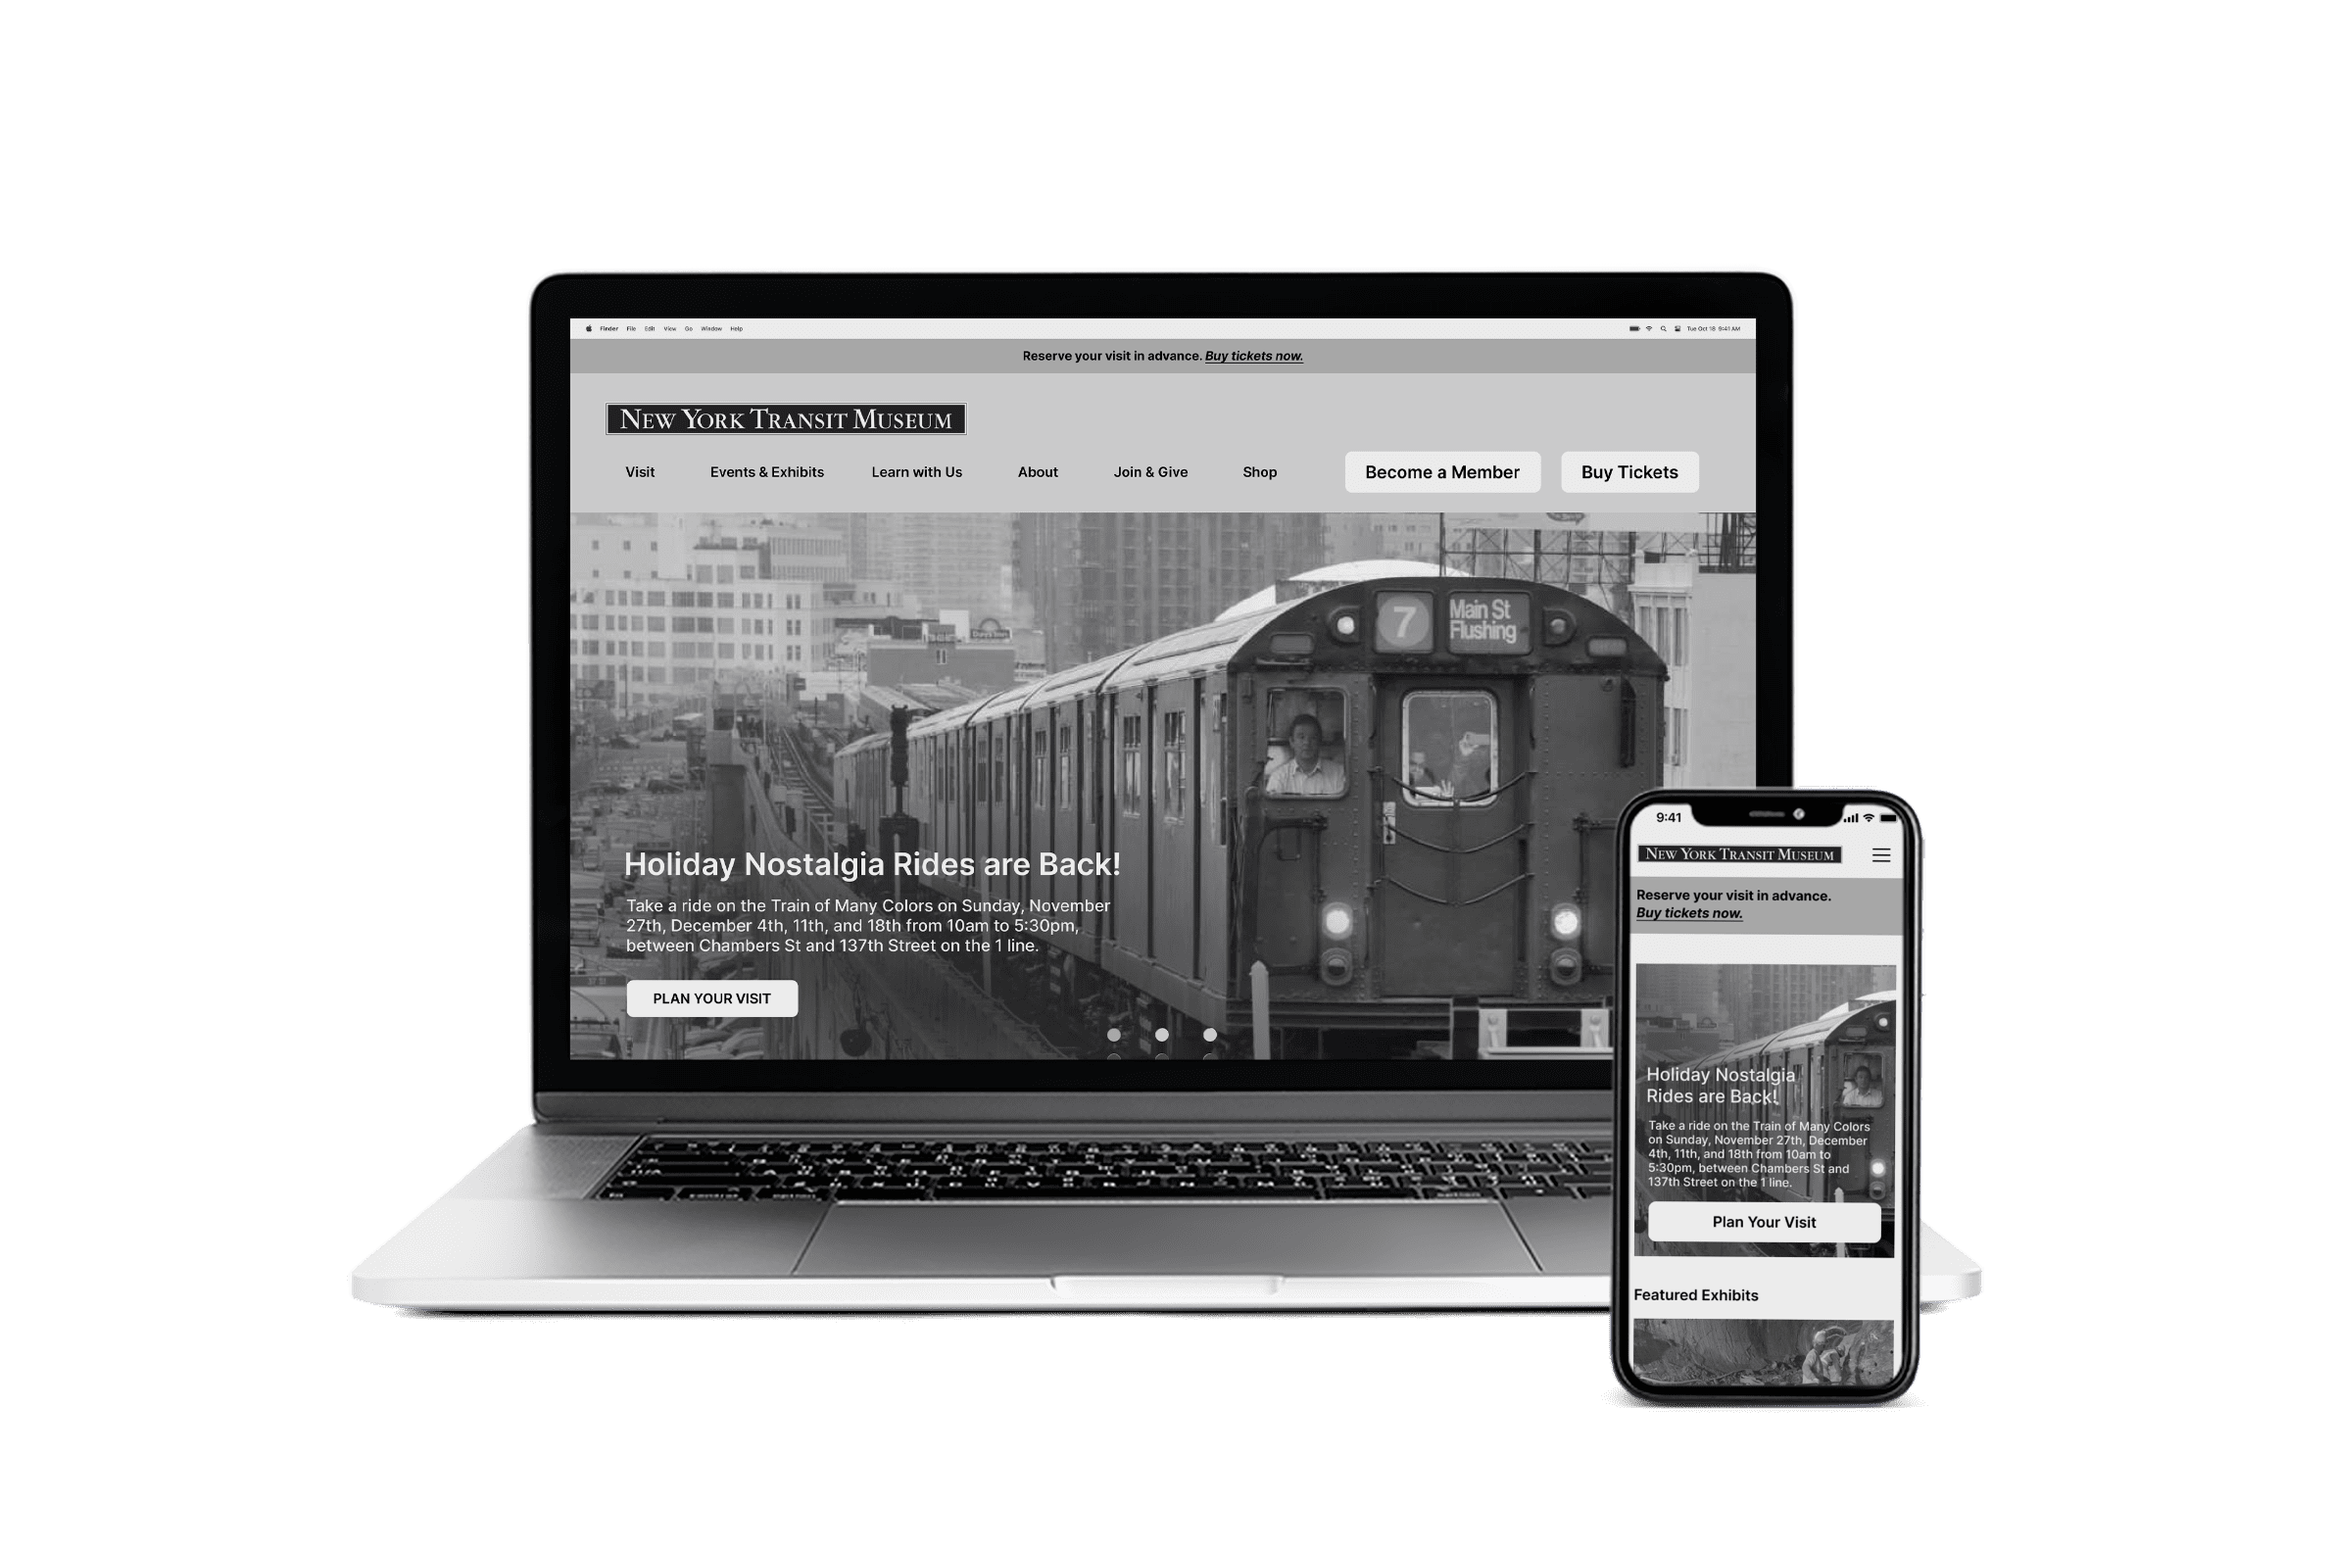
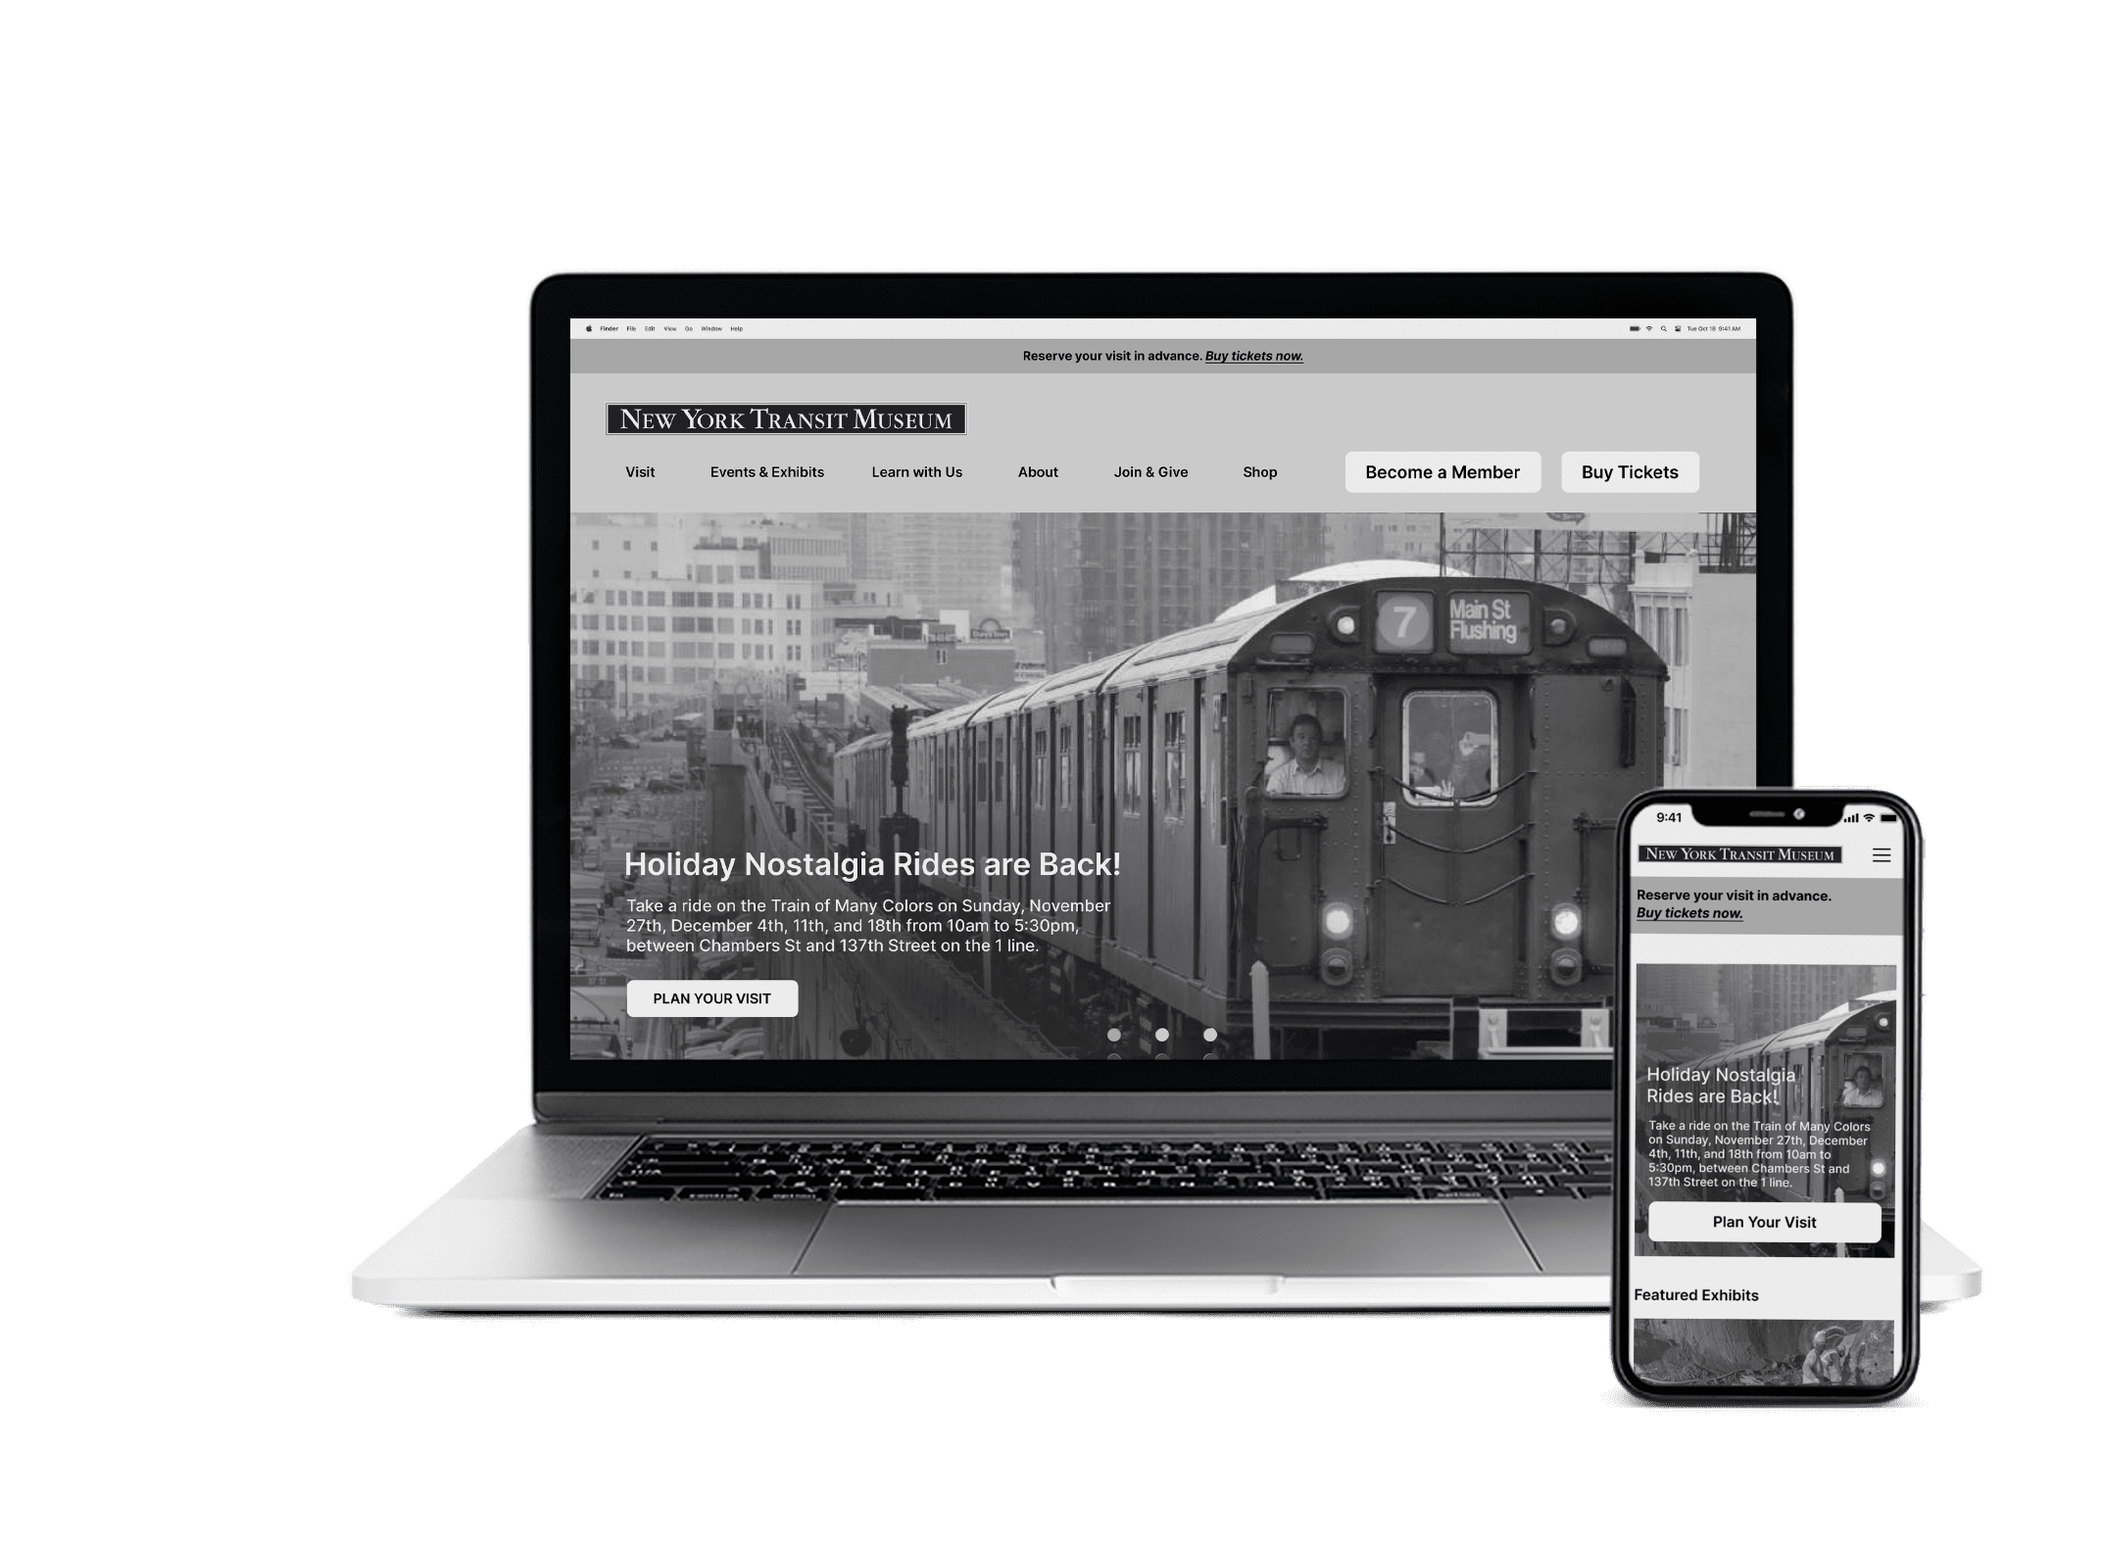
update

Changed region(s): [[0.1873, 0.1545, 0.9366, 0.9269], [0.1561, 0.8033, 0.2185, 0.8651], [0.4059, 0.8342, 0.4683, 0.8651]]

diff --git a/NYTransitMuseum.html b/NYTransitMuseum.html
@@ -69,7 +69,7 @@
     <div class="nav_work_block"></div>
     <div id="page0">
         <div class="content">
-            <img alt="pic" src="./static/image/ia/page0_back.png" style="width:952.0px;margin:72.4px 0 0 575.2px;">
+            <img alt="pic" src="./static/image/ia/page0_back.png" style="height:634.4px;margin:72.4px 0 0 575.2px;">
             <img alt="pic" src="./static/image/ia/nytm_logo.png" style="width:256.0px;margin:58.4px 0 0 791.2px;">
             <p class="font1" style="margin:194.8px 0 0 200px;color:#1F1F1F">Redesign an Intuitive Information Architecture & Engaging
                 Responsive Web Experience for New York Transit Museum Website</p>
